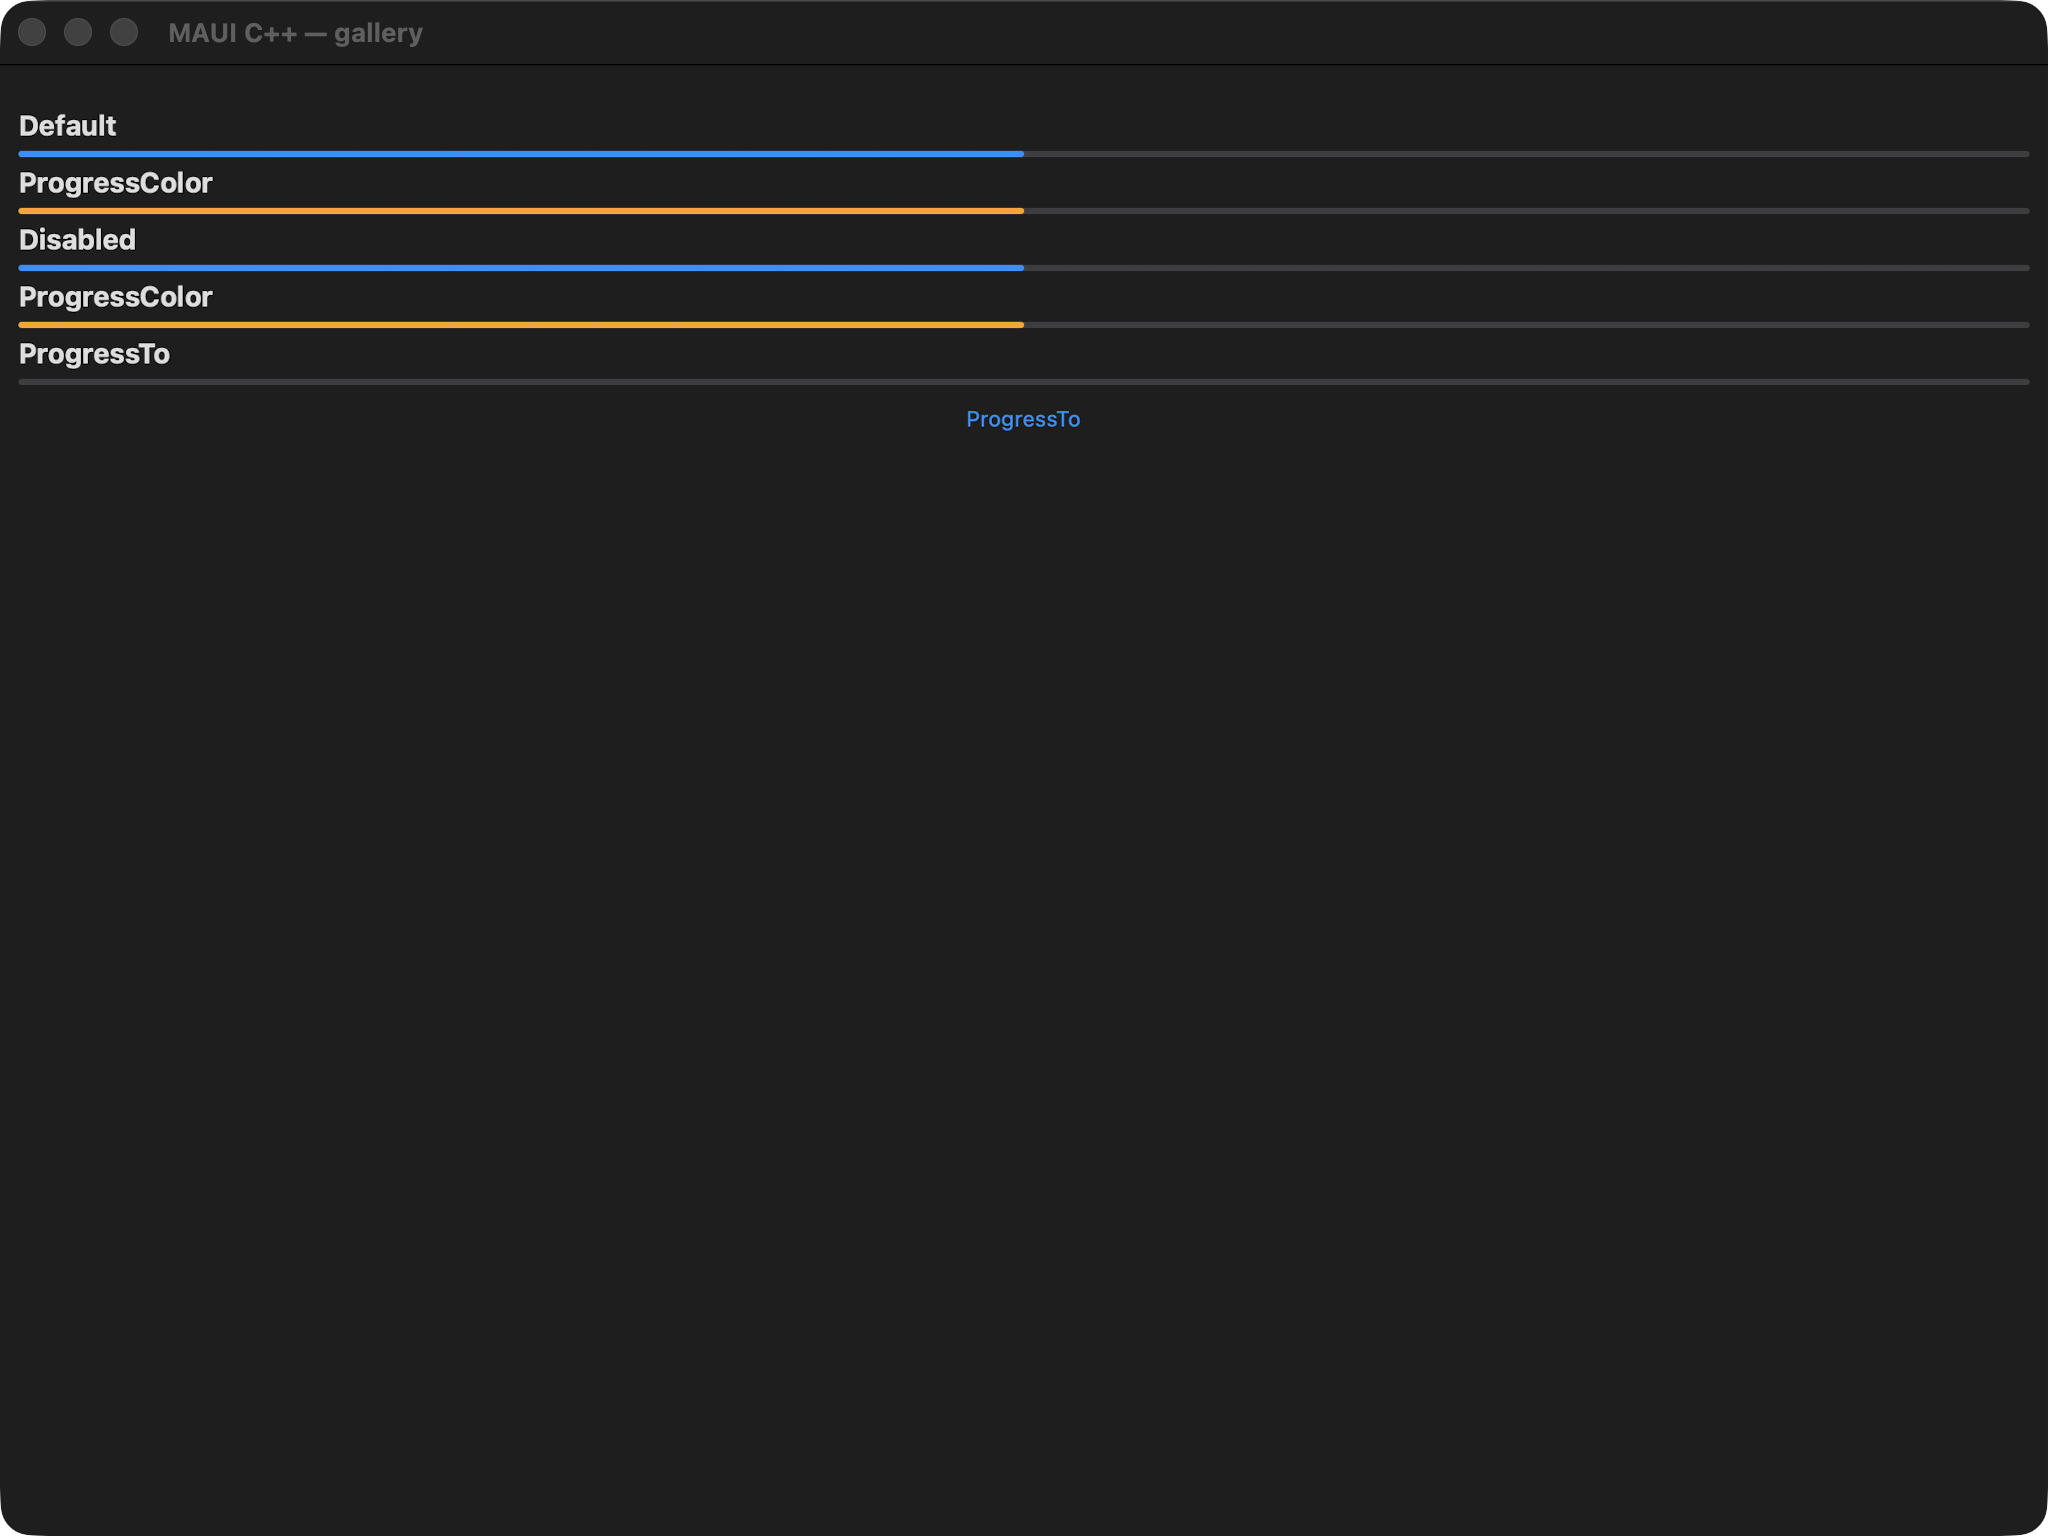
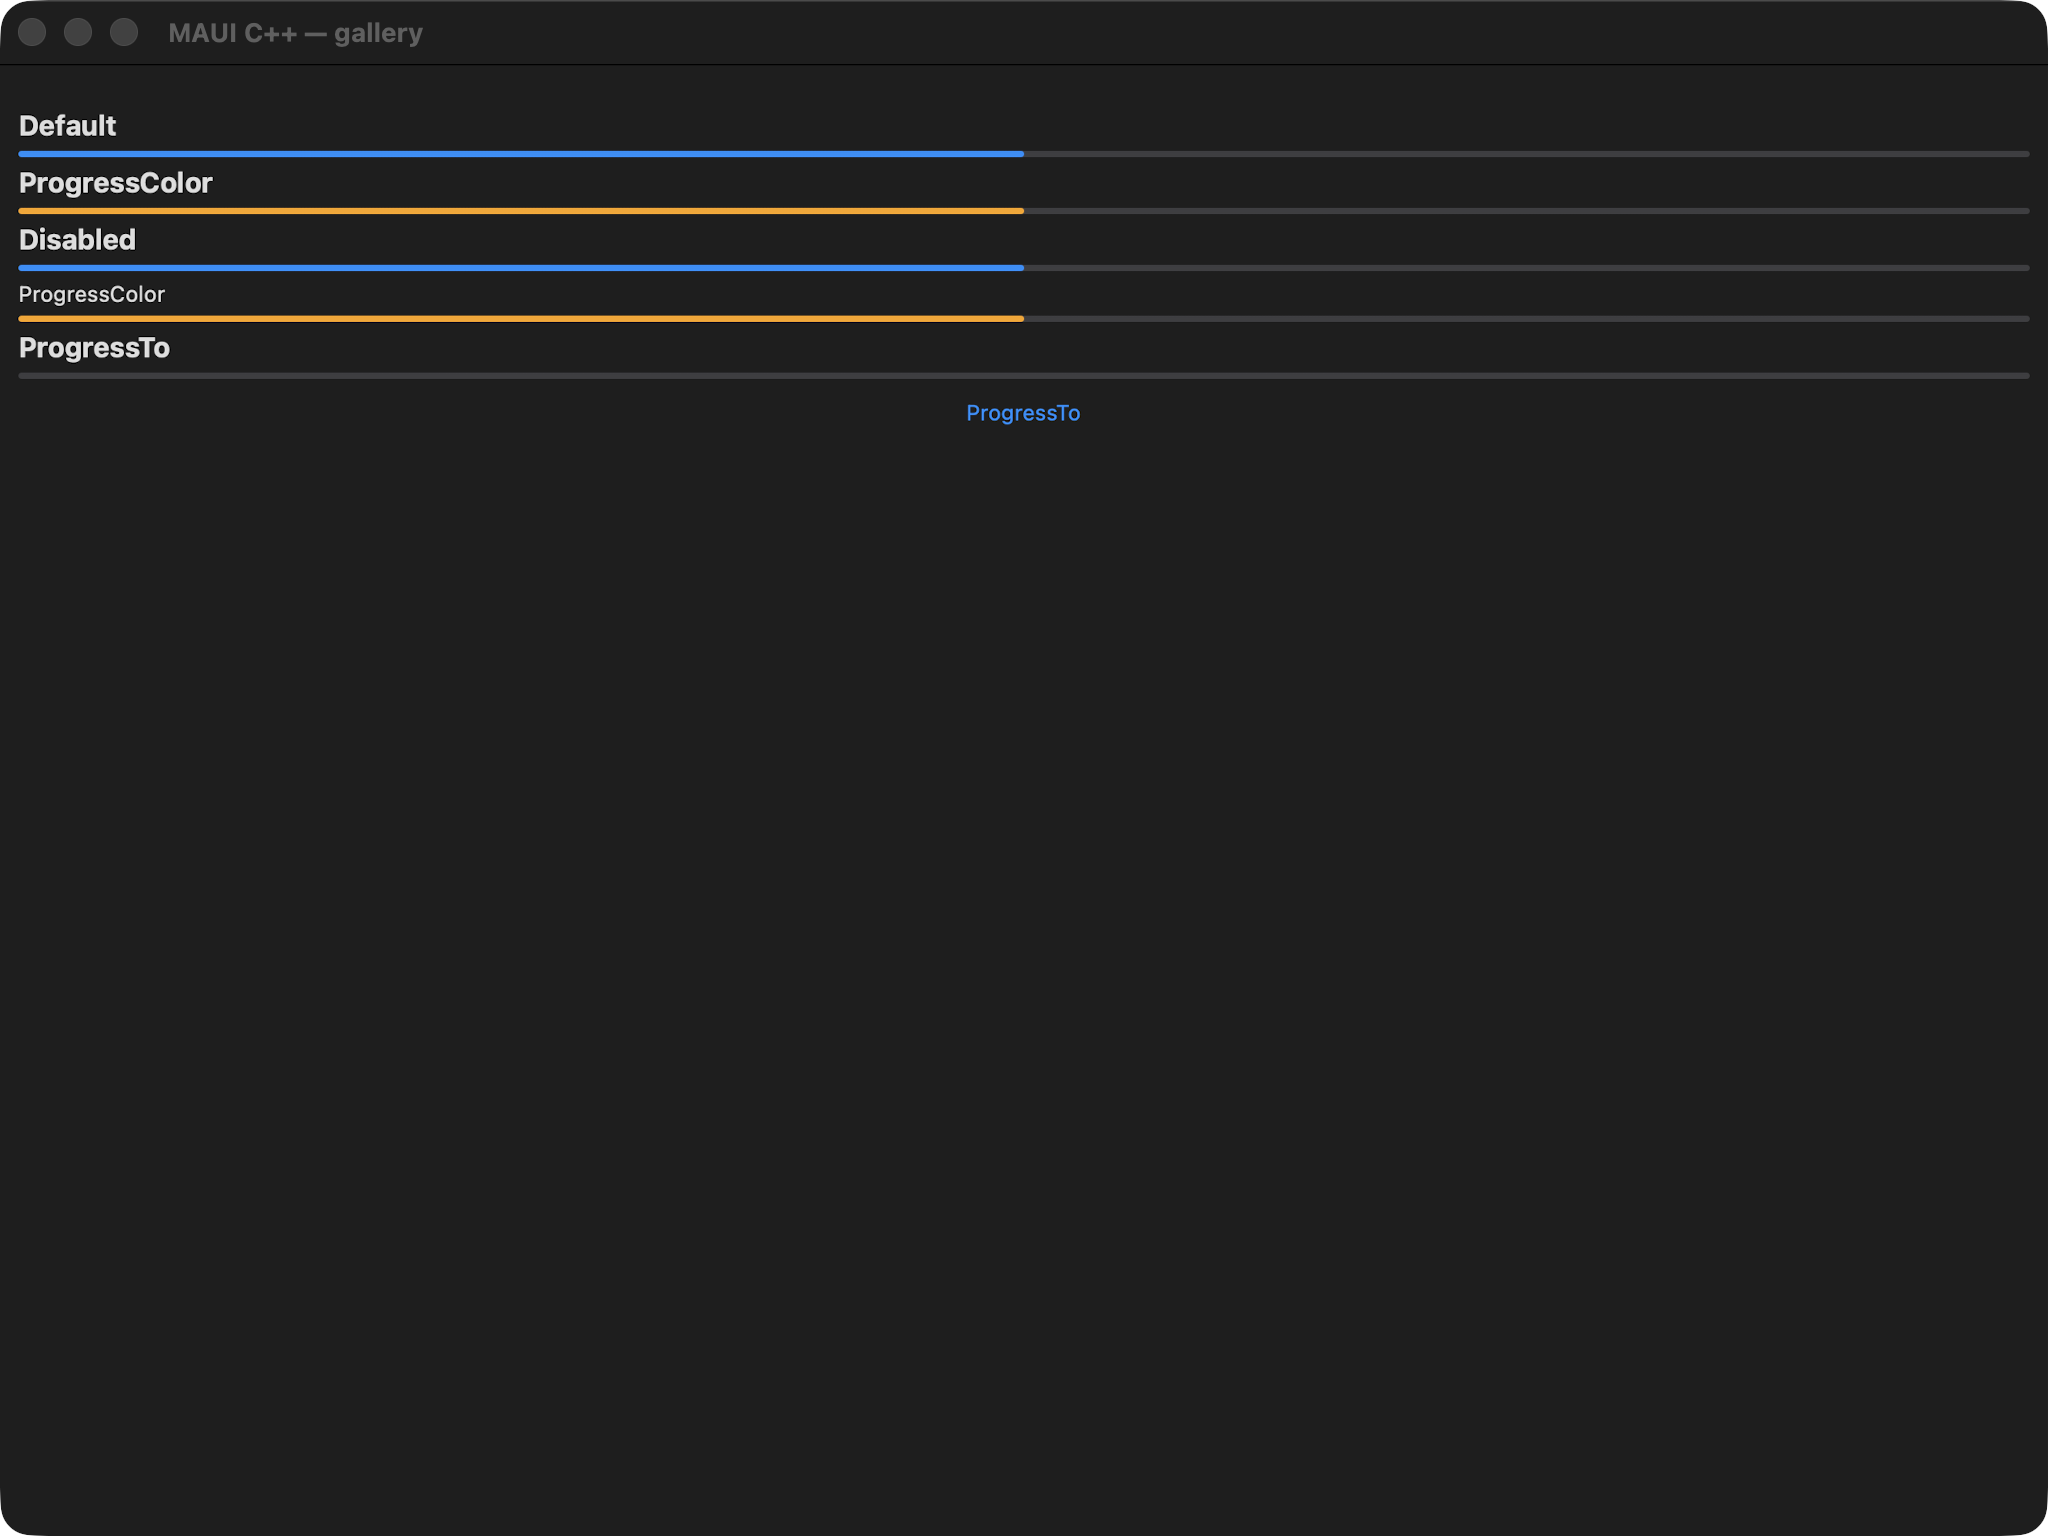
fix(progress_bar): 2nd ProgressColor label uses default font, not bold @18pt (maccatalyst)
The shared progress_bar.xaml authors the SECOND 'ProgressColor' label as a bare
<Label Text="ProgressColor"/> (no FontSize/FontAttributes) — default small,
non-bold — while Default/ProgressColor/Disabled/ProgressTo are 18pt Bold. The
builder bolded ALL five headers in one loop; exclude color2_header_ so it stays
default, matching MAUI + the xaml column exactly (cpp-vs-xaml 1.9%%->0.06%%).
cpp yellow->green; ~5%% vs-MAUI is the uniform harness inset. maccatalyst cpp
142->143.

Changed region(s): [[0.0, 0.1875, 1.0, 0.2812]]

diff --git a/port/cpp/examples/gallery/pages/progress_bar_page.hpp b/port/cpp/examples/gallery/pages/progress_bar_page.hpp
@@ -67,9 +67,12 @@ namespace maui::samples
             progress_to_button_.set_text("ProgressTo");
             progress_to_button_.clicked.connect([this] { progress_to_bar_.set_progress(1.0); });
 
-            // Section headers render bold @18pt — mirrors maui-compare ProgressBarPage.Headline().
-            for (maui::controls::label* h :
-                 {&default_header_, &color_header_, &disabled_header_, &color2_header_, &progress_to_header_})
+            // Section headers render bold @18pt — the shared progress_bar.xaml sets FontSize="18"
+            // FontAttributes="Bold" on Default / ProgressColor / Disabled / ProgressTo. The SECOND
+            // "ProgressColor" label (color2_header_) is authored as a bare <Label Text="ProgressColor"/>
+            // with NO FontSize/FontAttributes, so it stays the DEFAULT (smaller, non-bold) font — matching
+            // MAUI + the xaml column. So color2_header_ is deliberately excluded from this bold pass.
+            for (maui::controls::label* h : {&default_header_, &color_header_, &disabled_header_, &progress_to_header_})
             {
                 h->set_font(maui::core::font::system_font_of_size(18.0, maui::core::font_weight::bold));
             }

diff --git a/port/cpp/docs/comparison/README.md b/port/cpp/docs/comparison/README.md
@@ -3687,8 +3687,8 @@ _Not yet computed — no automated pixel-diff score is recorded for this page ye
 
 | Classification | Sonnet 5 | Gemini |
 | --- | --- | --- |
-| 🟢 Match | 142 | 0 |
-| 🟡 Minor | 32 | 0 |
+| 🟢 Match | 143 | 0 |
+| 🟡 Minor | 31 | 0 |
 | 🔴 Major | 2 | 0 |
 | ⬛ Blank | 7 | 0 |
 | ⏳ Unreviewed | 12 | 195 |
@@ -6313,16 +6313,16 @@ _Not yet reviewed._
 
 _Not yet computed — no automated pixel-diff score is recorded for this page yet._
 
-### 141. Progress Bar — 🟡/⏳
+### 141. Progress Bar — 🟢/⏳
 <sub>progress_bar</sub>
 
 <table><tr><th></th><th>MAUI</th><th>C++</th><th>C++ &amp; XAML</th><th>AppKit / C++</th><th>AppKit / C++ &amp; XAML</th></tr><tr><th>Light</th><td><img width="300px" src="../../../maui-reference/captures/maccatalyst/progress_bar_light.png" /></td><td><img width="300px" src="captures/maccatalyst/cpp/progress_bar_light.png" /></td><td><img width="300px" src="captures/maccatalyst/xaml/progress_bar_light.png" /></td><td><img width="300px" src="captures/maccatalyst/appkit_cpp/progress_bar_light.png" /></td><td><img width="300px" src="captures/maccatalyst/appkit_xaml/progress_bar_light.png" /></td></tr><tr><th>Dark</th><td><img width="300px" src="../../../maui-reference/captures/maccatalyst/progress_bar_dark.png" /></td><td><img width="300px" src="captures/maccatalyst/cpp/progress_bar_dark.png" /></td><td><img width="300px" src="captures/maccatalyst/xaml/progress_bar_dark.png" /></td><td><img width="300px" src="captures/maccatalyst/appkit_cpp/progress_bar_dark.png" /></td><td><img width="300px" src="captures/maccatalyst/appkit_xaml/progress_bar_dark.png" /></td></tr></table>
 
 ports ProgressBarPage.xaml (+ ProgressBarPage.xaml.cs)
 
-#### 🟡 Sonnet 5 Review
+#### 🟢 Sonnet 5 Review
 
-C1/C3: bars, colors (blue/orange), 50% fill, disabled row, and ProgressTo link all match in both themes, but the 4th label 'ProgressColor' is rendered bold/large in cpp where MAUI shows it small/regular weight.
+C1/C3: the second 'ProgressColor' section label is now the DEFAULT (small, non-bold) font per the shared XAML's bare &lt;Label&gt; (the builder previously bolded it @18pt like the other headers). cpp now renders identically to the green xaml column (cpp-vs-xaml 0.06%); the ~5% vs-MAUI is the uniform harness vertical inset (ruling 2) that the xaml column carries too. Bars: Default/ProgressColor(orange)/Disabled/ProgressColor(orange)/ProgressTo all match.
 
 #### ⏳ Gemini Review
 
